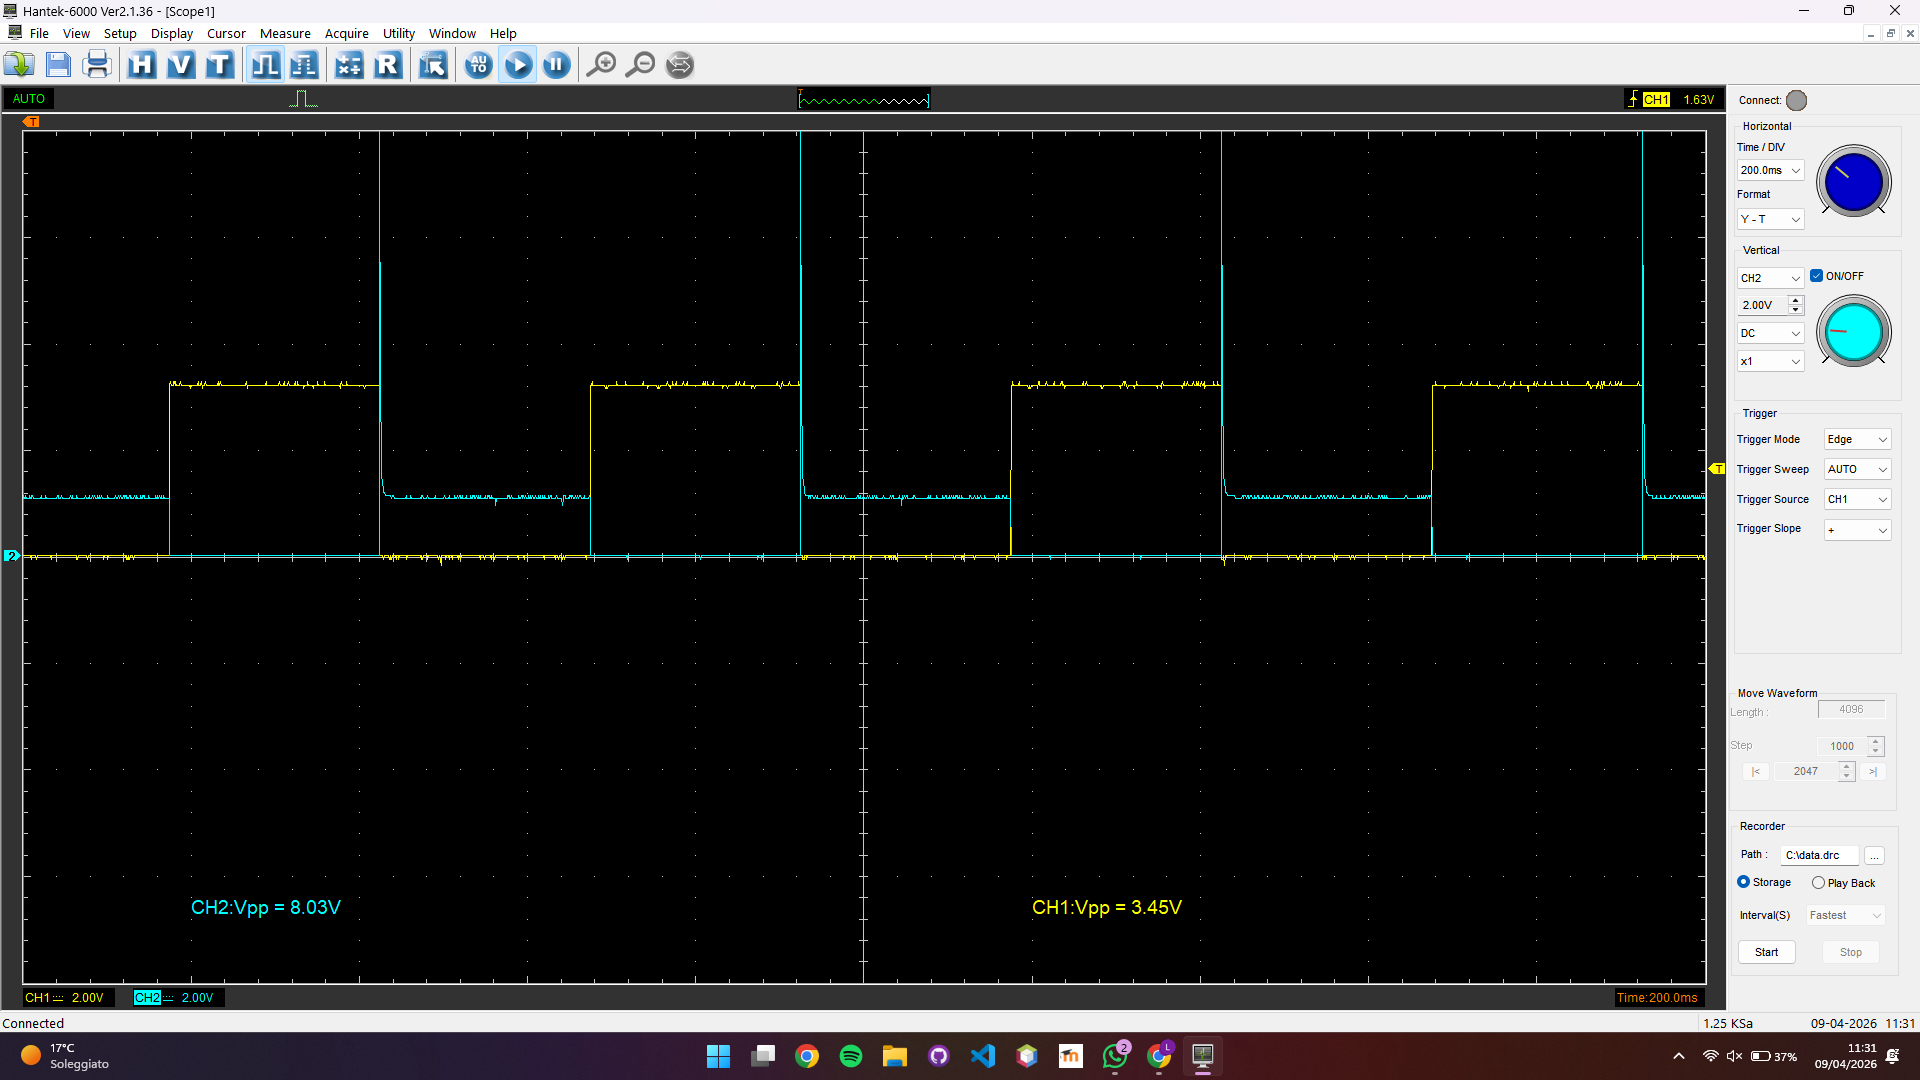
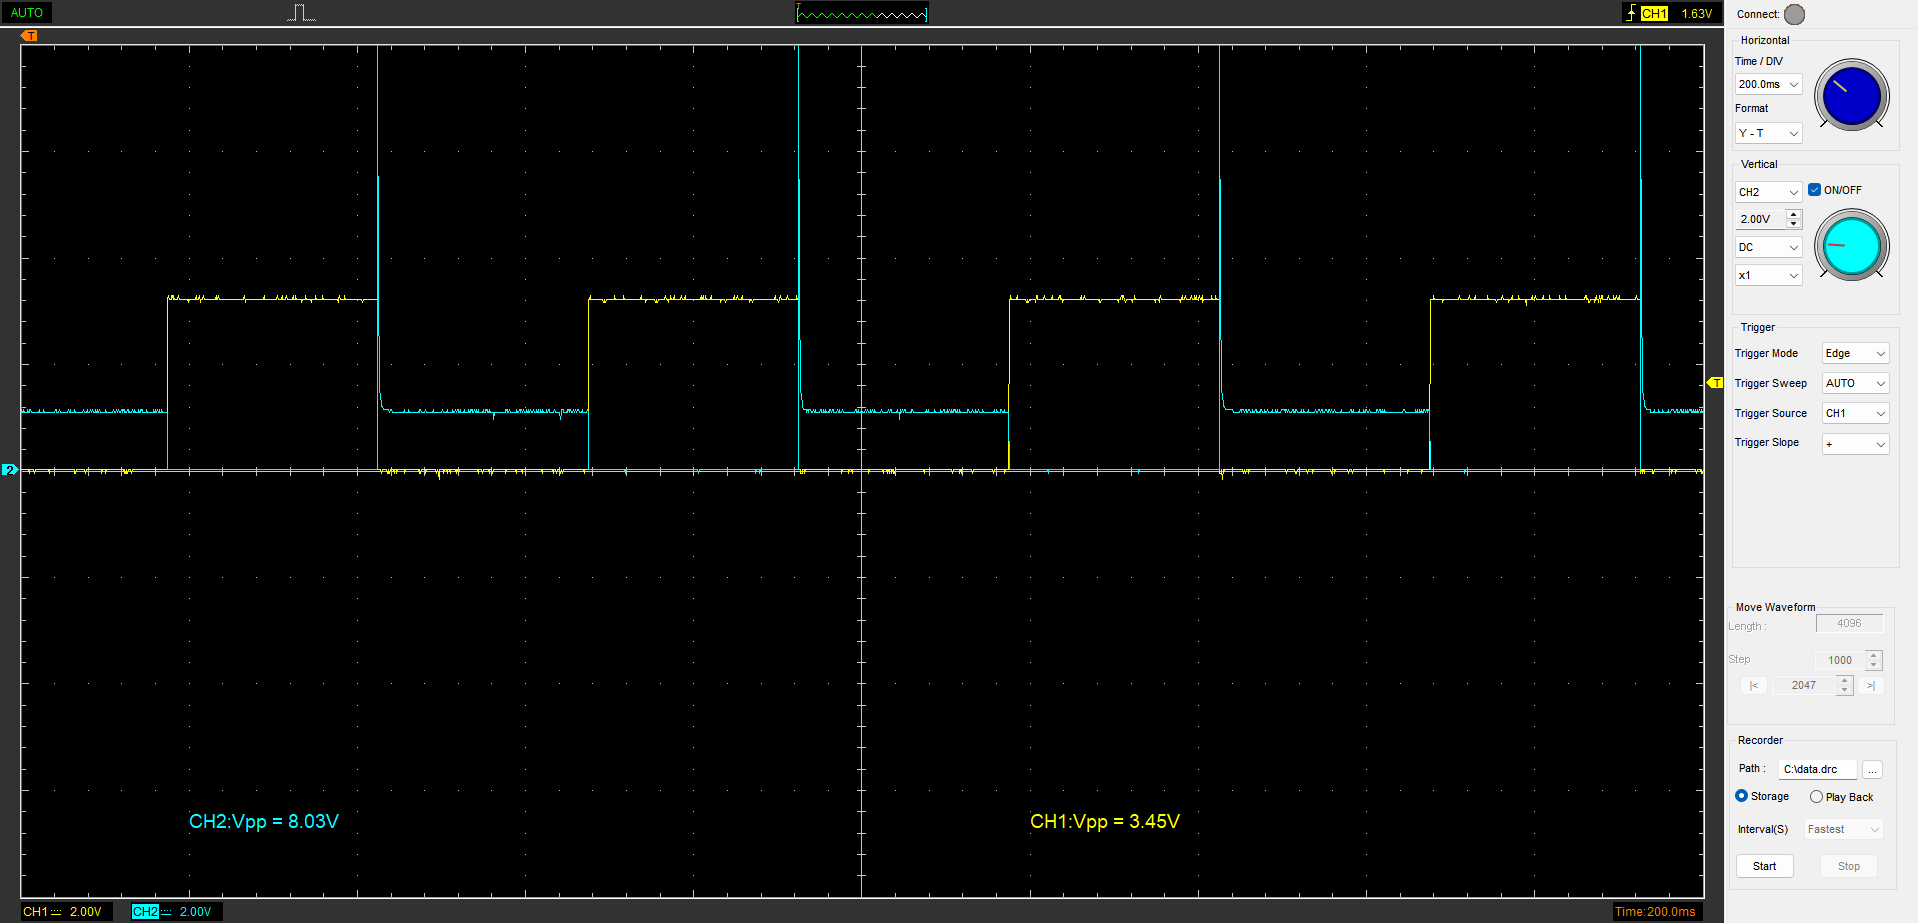
prova_solenoide

diff --git a/03_Solenoide_Diodo/main.tex b/03_Solenoide_Diodo/main.tex
@@ -9,6 +9,7 @@
 \usepackage{float}
 \usepackage{eso-pic} % for \BgThispage
 \usepackage{tikz}
+\usepackage{hyperref}
 \usepackage[pages=some]{background}
 \usepackage[italian]{babel}
 \backgroundsetup{scale=1.5,anchor=right,angle=0,opacity=0.1,contents={\includegraphics[scale=1]{Misc/logo_standard (1).png}}}
@@ -21,6 +22,13 @@
 %    \caption{Commento dell'immagine}
 %    \end{figure}
 
+\hypersetup{
+    colorlinks=true,
+    linkcolor=black,
+    filecolor=magenta,      
+    urlcolor=cyan,
+    pdftitle={Relazione tecnica Elettroattuatore e diodo di freewheeling - TEII},
+}
 
 
 \title{
@@ -51,7 +59,11 @@
 \section{Obiettivi dell'esperienza}
 La seguente relazione si pone come obiettivo quello di descrivere l'esperienza di laboratorio tenutasi
 nell'ambito del corso di Tecnologie Elettriche per l'informatica Industriale.\\
-Lo scopo è quello 
+In particolare, questa esperienza si è focalizzata sul funzionamento di un magnete solenoide pilotato da raspberry tramite transistor BJT
+e degli effetti induttivi generati dal suo funzionamento. 
+Inoltre, è stato analizzato il ruolo fondamentale del diodo di freewheeling (o di ricircolo) nella protezione dei componenti elettronici dalle sovratensioni generate dall'interruzione della corrente in un carico induttivo.
+
+
 \newpage
 
 \section{Introduzione e cenni teoritici}
@@ -100,21 +112,65 @@ Transistor BJT & BDX33B& NPN Darlington, 80V, 10A \\ \hline
 
 \begin{figure}[H]
     \centering
-    %%\includegraphics[width=0.6\textwidth]{Misc/attuatore.png}
-    \small (In questa sezione andrebbe inserito lo schema circuitale o una foto del setup)
+    \includegraphics[width=0.9\textwidth]{Misc/attuatore.png}
     \caption{Elettromagnete solenoide TAU-0730TM.}
 \end{figure}
 \newpage
 \newpage
 
 \section{Raccolta e Analisi dei dati sperimentali}
+In questa fase dell'esperimento sono state effettuate diverse misurazioni per osservare il comportamento del solenoide durante le fasi di eccitazione e diseccitazione, con particolare attenzione ai transitori di tensione.
+
+\subsection{Analisi del transitorio senza diodo di freewheeling}
+Inizialmente è stato configurato il circuito pilotando il solenoide tramite il transistor BJT senza l'ausilio del diodo di protezione. All'apertura del circuito (interruzione della corrente nel carico induttivo), l'oscilloscopio ha rilevato un picco di tensione inversa molto elevato (sovratensione induttiva).
+Questo fenomeno è dovuto alla legge di Faraday-Lenz:
+\begin{equation}
+    V_L = L \frac{di}{dt}
+\end{equation}
+Poiché la variazione di corrente $di$ avviene in un tempo $dt$ estremamente ridotto, la tensione generata tende a valori teoricamente infiniti, rischiando di danneggiare la giunzione del transistor.
+
+\begin{figure}[H]
+    \centering
+    \includegraphics[width=1\textwidth]{Misc/no_diodo.png}
+    \caption{Misurazione all'oscilloscopio del transitorio senza diodo di freewheeling.}
+    \label{fig:transitorio_senza_diodo}
+\end{figure}
+
+Analizzando la traccia acquisita dall'oscilloscopio, riportata in figura \ref{fig:transitorio_senza_diodo}, si osserva in giallo il segnale utilizzato per il pilotaggio del transistor. In azzurro è invece rappresentata la tensione ai capi del solenoide, in cui risulta evidente il picco (spike) di sovratensione induttiva che si genera all'istante di apertura del circuito.
+
+\subsection{Analisi del transitorio con diodo di freewheeling}
+Successivamente è stato inserito il diodo in parallelo al solenoide, con il catodo rivolto verso l'alimentazione positiva. In questa configurazione, nel momento in cui il transistor smette di condurre, il diodo entra in conduzione diretta offrendo un cammino a bassa impedenza per la corrente accumulata nell'induttore.
+Le osservazioni effettuate mostrano che:
+\begin{itemize}
+    \item La tensione ai capi del transistor viene limitata a $V_{CC} + V_F$ (dove $V_F$ è la tensione di soglia del diodo).
+    \item L'energia immagazzinata nel campo magnetico viene dissipata gradualmente attraverso la resistenza interna del solenoide e del diodo stesso.
+    \item Il tempo di rilascio meccanico dell'attuatore risulta leggermente superiore rispetto al caso senza diodo, a causa del prolungamento della circolazione di corrente.
+\end{itemize}
+
+\begin{figure}[H]
+    \centering
+    \includegraphics[width=1\textwidth]{Misc/diodo.png}
+    \caption{Misurazione all'oscilloscopio del transitorio con diodo freewheeling.}
+    \label{fig:transitorio_con_diodo}
+\end{figure}
+
+Analizzando la traccia riportata in figura \ref{fig:transitorio_con_diodo}, si nota nuovamente in giallo il segnale di pilotaggio del transistor e in azzurro la tensione misurata ai capi del solenoide. A differenza del caso precedente, l'inserimento del diodo di freewheeling abbatte completamente lo spike di sovratensione all'apertura del circuito. La tensione in eccesso viene infatti limitata (clamping) 
+permettendo lo scaricamento dell'energia accumulata nell'induttore, proteggendo il circuito.
+Si nota che le due forme d'onda corrispondo quasi perfettamente
+
+
 \newpage
 
 \section{Risultati}
+
 \newpage
 
 \section{Conclusioni}
+In conclusione, l'esperienza di laboratorio ha permesso di verificare sperimentalmente il comportamento di un carico induttivo (il magnete solenoide) durante le fasi di commutazione. Tramite l'utilizzo dell'oscilloscopio è stato possibile osservare direttamente gli effetti della legge di Faraday-Lenz e la conseguente generazione di spike di sovratensione, che risultano essere potenzialmente distruttivi per i circuiti di pilotaggio a semiconduttore, come il transistor BJT impiegato nell'esperienza.
+
+Il successivo inserimento del diodo di freewheeling ha dimostrato in modo inequivocabile la sua efficacia e la sua vitale necessità: offrendo un percorso a bassa impedenza per il ricircolo della corrente, il diodo ha soppresso i pericolosi picchi di tensione inversa, garantendo la dissipazione sicura dell'energia magnetica immagazzinata nell'induttore senza recare danni al transistor. 
+
+Questa prova pratica ha permesso di consolidare i concetti teorici affrontati, evidenziando l'importanza critica di adottare sempre le adeguate protezioni circuitali durante la progettazione di sistemi di interfacciamento tra la logica di controllo e gli attuatori elettromeccanici impiegati in ambito industriale.
 \newpage
 
 \end{document}
-